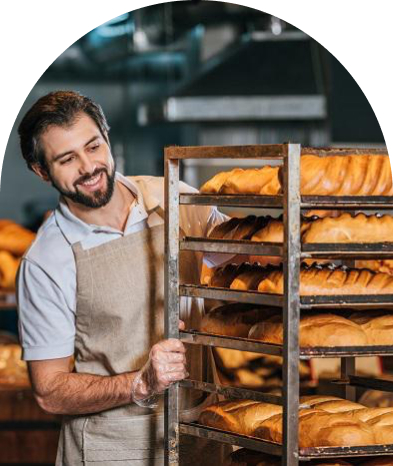
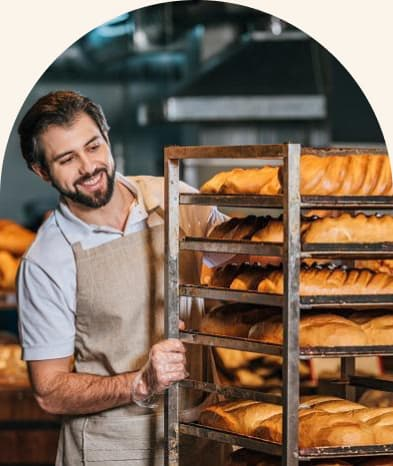
add styles colors and change photo

diff --git a/backery.html b/backery.html
@@ -36,11 +36,13 @@
     </header>
     <!-- Main -->
     <main>
+      <!-- Section Hero -->
       <section class="hero">
         <h1 class="hero-title">
           Сучасна<span class="hero-title-span"> пекарня</span>
         </h1>
       </section>
+      <!-- Section Traditions -->
       <section class="traditions" id="traditions">
         <ul class="traditions-list">
           <li class="traditions-item">Великий попит на ринку</li>
@@ -66,54 +68,70 @@
           alt="Чоловік пекар з хлібом"
         />
       </section>
-      <section id="chefs">
-        <h2>Наші найкращі <span>шеф -кухарі</span></h2>
-        <ul>
-          <li>
-            <article>
-              <h3>Настя</h3>
-              <p>Привіт, я Настя!</p>
-              <p>Вже 10 років, я свтілюю у життя цікаві та смачні ідеї.</p>
-              <p>Я випічу для вас найсмачніщі вироби!</p>
+      <!-- Section Chefs -->
+      <section class="chefs" id="chefs">
+        <h2 class="chefs-title">Наші найкращі <span class="chefs-title-span">шеф -кухарі</span></h2>
+        <ul class="chefs-list">
+          <li class="chefs-item">
+            <article class="chefs-article">
+              <h3 class="chefs-article-title">Настя</h3>
+              <p class="chefs-article-text">Привіт, я Настя!</p>
+              <p class="chefs-article-text">Вже 10 років, я свтілюю у життя цікаві та смачні ідеї.</p>
+              <p class="chefs-article-text">Я випічу для вас найсмачніщі вироби!</p>
             </article>
           </li>
           <li>
-            <article>
-              <h3>Влад</h3>
-              <p>Привіт, я Влад!</p>
-              <p>
+            <article class="chefs-article">
+              <h3 class="chefs-article-title">Влад</h3>
+              <p class="chefs-article-text">Привіт, я Влад!</p>
+              <p class="chefs-article-text">
                 Мій кодитерський стаж вже 18 років. <span>SHOP BEKERY</span> -
                 це наша любов, з якою ми ділимось кожен раз з Вами через нашу
                 випічку!
-              </p>
+              </p class="chefs-article-text">
               <p>Я зроблю для вас унікальну начинку на будь який смак!</p>
             </article>
           </li>
         </ul>
       </section>
-      <section id="formats">
-        <h2>Формати</h2>
-        <ul>
-          <li>
-            <article>
-              <h3 lang="en">Walrus</h3>
+      <!-- Section Formats -->
+      <section class="formats" id="formats">
+        <h2 class="formats-title">Формати</h2>
+        <ul class="formats-list">
+          <li class="formats-item">
+            <article class="formats-article">
+              <h3 class="formats-article-title" lang="en">Walrus</h3>
+              <p class="formats-article-text">Площа: до 120 м2
+Меню: розширене меню 
+Штат: 2 продавці-касири, 2 пекарі, 2 помічники пекаря, 2 офіціанти-різнороби
+Посадкові місця: є</p>
             </article>
           </li>
           <li>
-            <article>
-              <h3 lang="en">Horseshoe</h3>
+            <article class="formats-article">
+              <h3 class="formats-article-title" lang="en">Horseshoe</h3>
+              <p class="formats-article-text">Площа: до 25 м2
+Меню: найпопулярніші позиції меню
+Штат: 2 продавці-касири, 2 пекарі, 1 помічник пекаря
+Посадкові місця: відсутні
+              </p class="formats-article-text">
             </article>
           </li>
           <li>
-            <article>
-              <h3 lang="en">Handlebar</h3>
+            <article class="formats-article">
+              <h3 class="formats-article-title" lang="en">Handlebar</h3>
+              <p class="formats-article-text">Площа: до 15 м2
+Меню: найпопулярніші позиції меню 
+Штат: 1 продавець, 1 пекар, 1 помічник пекаря
+Посадкові місця: відсутні</p>
             </article>
           </li>
         </ul>
       </section>
-      <section id="contacts">
-        <h2>Приєднуйся до мережі пекарень</h2>
-        <iframe
+      <!-- Section Contacts -->
+      <section class="contacts" id="contacts">
+        <h2 class="contacts-title">Приєднуйся до мережі пекарень</h2>
+        <iframe class="contacts-iframe"
           src="https://www.google.com/maps/embed?pb=!1m18!1m12!1m3!1d2540.1640531314047!2d30.491233500000003!3d50.4566697!2m3!1f0!2f0!3f0!3m2!1i1024!2i768!4f13.1!3m3!1m2!1s0x40d4ce637bfe1717%3A0x5370c2254ad1b952!2z0YPQuy4g0KHQtdGH0LXQstGL0YUg0KHRgtGA0LXQu9GM0YbQvtCyLCA1NCwg0JrQuNC10LIsINCj0LrRgNCw0LjQvdCwLCAwMjAwMA!5e0!3m2!1sru!2sjo!4v1699729445799!5m2!1sru!2sjo"
           width="603"
           height="595"
@@ -124,35 +142,37 @@
       </section>
     </main>
     <!-- Footer -->
-    <footer>
-      <img src="./images/logo.svg" alt="Логотип Сучасна пекарня" />
-      <nav>
-        <a href="#"></a>
-        <ul>
-          <li><a href="#traditions">Наші традиції</a></li>
-          <li><a href="#chefs">Шеф-кухарі</a></li>
-          <li><a href="#formats">Формати</a></li>
-          <li><a href="#contacts">Контакти</a></li>
+    <footer class="footer">
+      <img class="footer-img" src="./images/logo.svg" alt="Логотип Сучасна пекарня" />
+      <nav class="footer-nav">
+        <a class="footer-logo-link" href="#"></a>
+        <ul class="footer-list-nav">
+          <li class="footer-item-nav"><a class="footer-link-nav" href="#traditions">Наші традиції</a></li>
+          <li class="footer-item-nav"><a class="footer-link-nav" href="#chefs">Шеф-кухарі</a></li>
+          <li class="footer-item-nav"><a class="footer-link-nav" href="#formats">Формати</a></li>
+          <li class="footer-item-nav"><a class="footer-link-nav" href="#contacts">Контакти</a></li>
         </ul>
       </nav>
-      <address>
-        <ul>
-          <li><a href="tel:+380960000007">+ 38 (096) 000 00 07</a></li>
-          <li>
-            <a href="mailto:shopbakery@gmail.com">shopbakery@gmail.com</a>
+      <address class="footer-address">
+        <ul class="footer-address-list">
+          <li class="footer-address-item">
+            <a class="footer-address-link" href="tel:+380960000007">+ 38 (096) 000 00 07</a>
           </li>
           <li>
-            <a href="https://maps.app.goo.gl/KGZe3xbd6ZkTj54U8" target="_blank"
+            <a class="footer-address-link" href="mailto:shopbakery@gmail.com">shopbakery@gmail.com</a>
+          </li>
+          <li class="footer-address-item">
+            <a class="footer-address-link" href="https://maps.app.goo.gl/KGZe3xbd6ZkTj54U8" target="_blank"
               >Україна, м. Київ, вул. Січових Стрільців 54
             </a>
           </li>
         </ul>
-        <ul>
-          <li><a href="#"></a></li>
-          <li><a href="#"></a></li>
+        <ul class="footer-list-icon">
+          <li class="footer-item-icon"><a class="footer-link-icon" href="#"></a></li>
+          <li class="footer-item-icon"><a class="footer-link-icon" href="#"></a></li>
         </ul>
-        <a href="#" target="_blank">Політика конфіденційності</a>
-        <p>&copy; 2022 Дані захищені</p>
+        <a class="footer-confid-link" href="#" target="_blank">Політика конфіденційності</a>
+        <p class="footer-confid-text">&copy; 2022 Дані захищені</p>
       </address>
     </footer>
   </body>

diff --git a/css/style.css b/css/style.css
@@ -84,3 +84,95 @@ ul {
 }
 
 /* =============================== */
+
+/* ============CHEFS============== */
+
+.chefs {
+}
+.chefs-title {
+  color: var(--color-black);
+}
+.chefs-title-span {
+  color: var(--color-green-dark);
+}
+.chefs-list {
+}
+.chefs-item {
+}
+.chefs-article {
+}
+.chefs-article-title {
+}
+.chefs-article-text {
+}
+
+/* ================================== */
+
+/* ============FORMATS=============== */
+.formats {
+}
+.formats-title {
+}
+.formats-list {
+}
+.formats-item {
+}
+.formats-article {
+}
+.formats-article-title {
+  color: var(--color-light);
+}
+.formats-article-text {
+  color: var(--color-light);
+}
+/* ================================== */
+
+/* ============CONTACTS============== */
+.contacts {
+}
+.contacts-title {
+}
+.contacts-iframe {
+}
+
+/* ================================== */
+
+/* ============FOOTER================ */
+.footer {
+}
+.footer-img {
+}
+.footer-nav {
+}
+.footer-logo-link {
+}
+.footer-list-nav {
+}
+.footer-item-nav {
+}
+.footer-link-nav {
+  color: var(--color-light);
+}
+.footer-address {
+}
+.footer-address-list {
+}
+.footer-address-item {
+}
+.footer-address-link {
+  color: var(--color-light);
+}
+.footer-list-icon {
+}
+.footer-item-icon {
+}
+.footer-link-icon {
+}
+.footer-confid-link {
+  color: var(--color-light);
+}
+.footer-confid-text {
+  color: #a18268;
+}
+
+/* ================================== */
